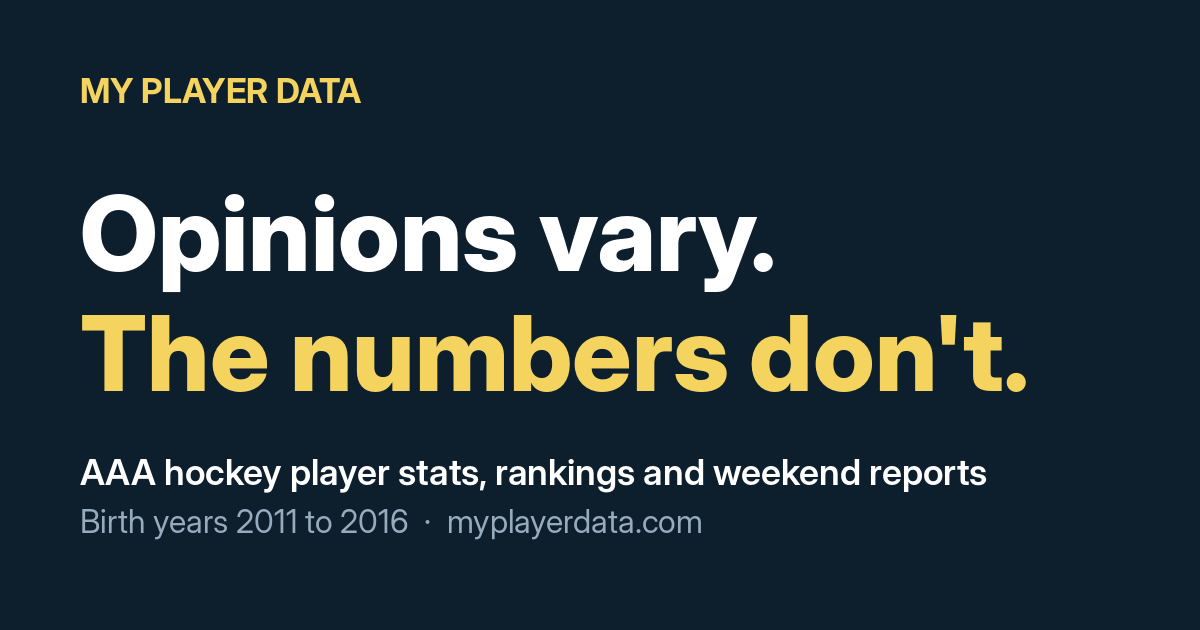
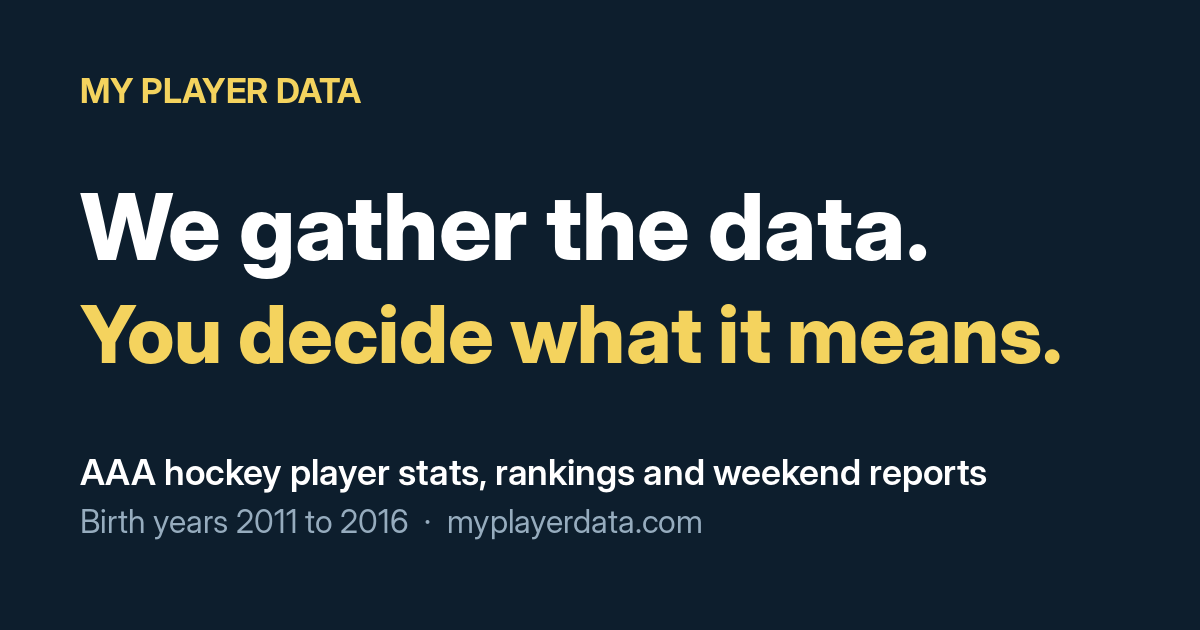
New motto: We gather the data. You decide what it means.
Claude-Session: https://claude.ai/code/session_01VFEdd2WZ5V98gBRHcarm83

Changed region(s): [[0.0617, 0.3016, 0.8942, 0.6333]]

diff --git a/index.html b/index.html
@@ -123,7 +123,7 @@ label{display:block;font-size:13px;font-weight:600;margin:10px 0 4px}
 <div class="top"><div class="in"><div class="brand">My Player <span>Data</span></div>
 <nav><a class="hide" href="#weekend">Weekend Report</a><a class="hide" href="#preview">Player Data</a><a class="hide" href="#find">Find a player</a><a class="hide" href="#ratings">Ratings</a><a class="hide" href="#pricing">Pricing</a><button class="btn alt" data-act="signin">Sign in</button><button class="btn" data-act="join">Become a member</button></nav></div></div>
 <div class="hero"><div class="in">
-<div class="motto">Opinions vary. The numbers don’t.</div>
+<div class="motto">We gather the data. You decide what it means.</div>
 <h1>Every weekend, covered. <em>Every player, measured.</em></h1>
 <p>See where your player stands, with scores, stats and rankings in one place. The Weekend Report tells you what happened in AAA hockey and what is coming next. Player Data gives you game-by-game stats for players born 2011 through 2016, measured the same way for every player.</p>
 <div class="cta"><button class="btn big" data-act="join" data-plan="monthly">Join now · first month $19</button><a class="btn big alt" href="#weekend" style="text-decoration:none">See this weekend</a></div><p class="intro-note">Black Friday introductory rate for new members, for a limited time. Then $79/month. Cancel any time.</p>
